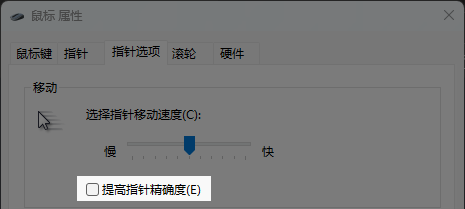
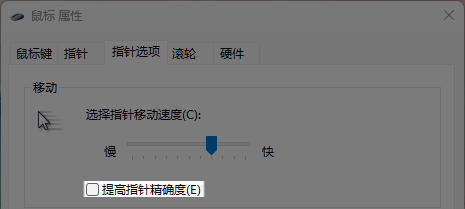
Update README.md & autoexec.cfg

Changed region(s): [[0.0, 0.0, 1.0, 1.0], [0.1505, 0.8325, 0.4516, 0.9761], [0.3914, 0.6316, 0.4817, 0.7464]]

diff --git a/README.md b/README.md
@@ -1,8 +1,8 @@
 # autoexec.cfg
 
-这是我本人Counter-Strike系列游戏的硬件及 ```autoexec.cfg``` 配置参照。
+这是我本人Counter-Strike系列游戏的硬件及 ```autoexec.cfg``` 配置参照
 
-参考信息:
+> 参考信息:
 
 1. [新闻中心](https://store.steampowered.com/news/app/730)
 
@@ -58,8 +58,8 @@ bind "MOUSE4" "+jumpaction; +throwaction"
 
 | 配置项 | 值 |
 | :--- | :--- |
-| Windows | 5 (Default) |
-| DPI | 1500 |
+| Windows | 7 |
+| DPI | 1000 |
 | Hz | 1000 |
 
 ## 显卡
